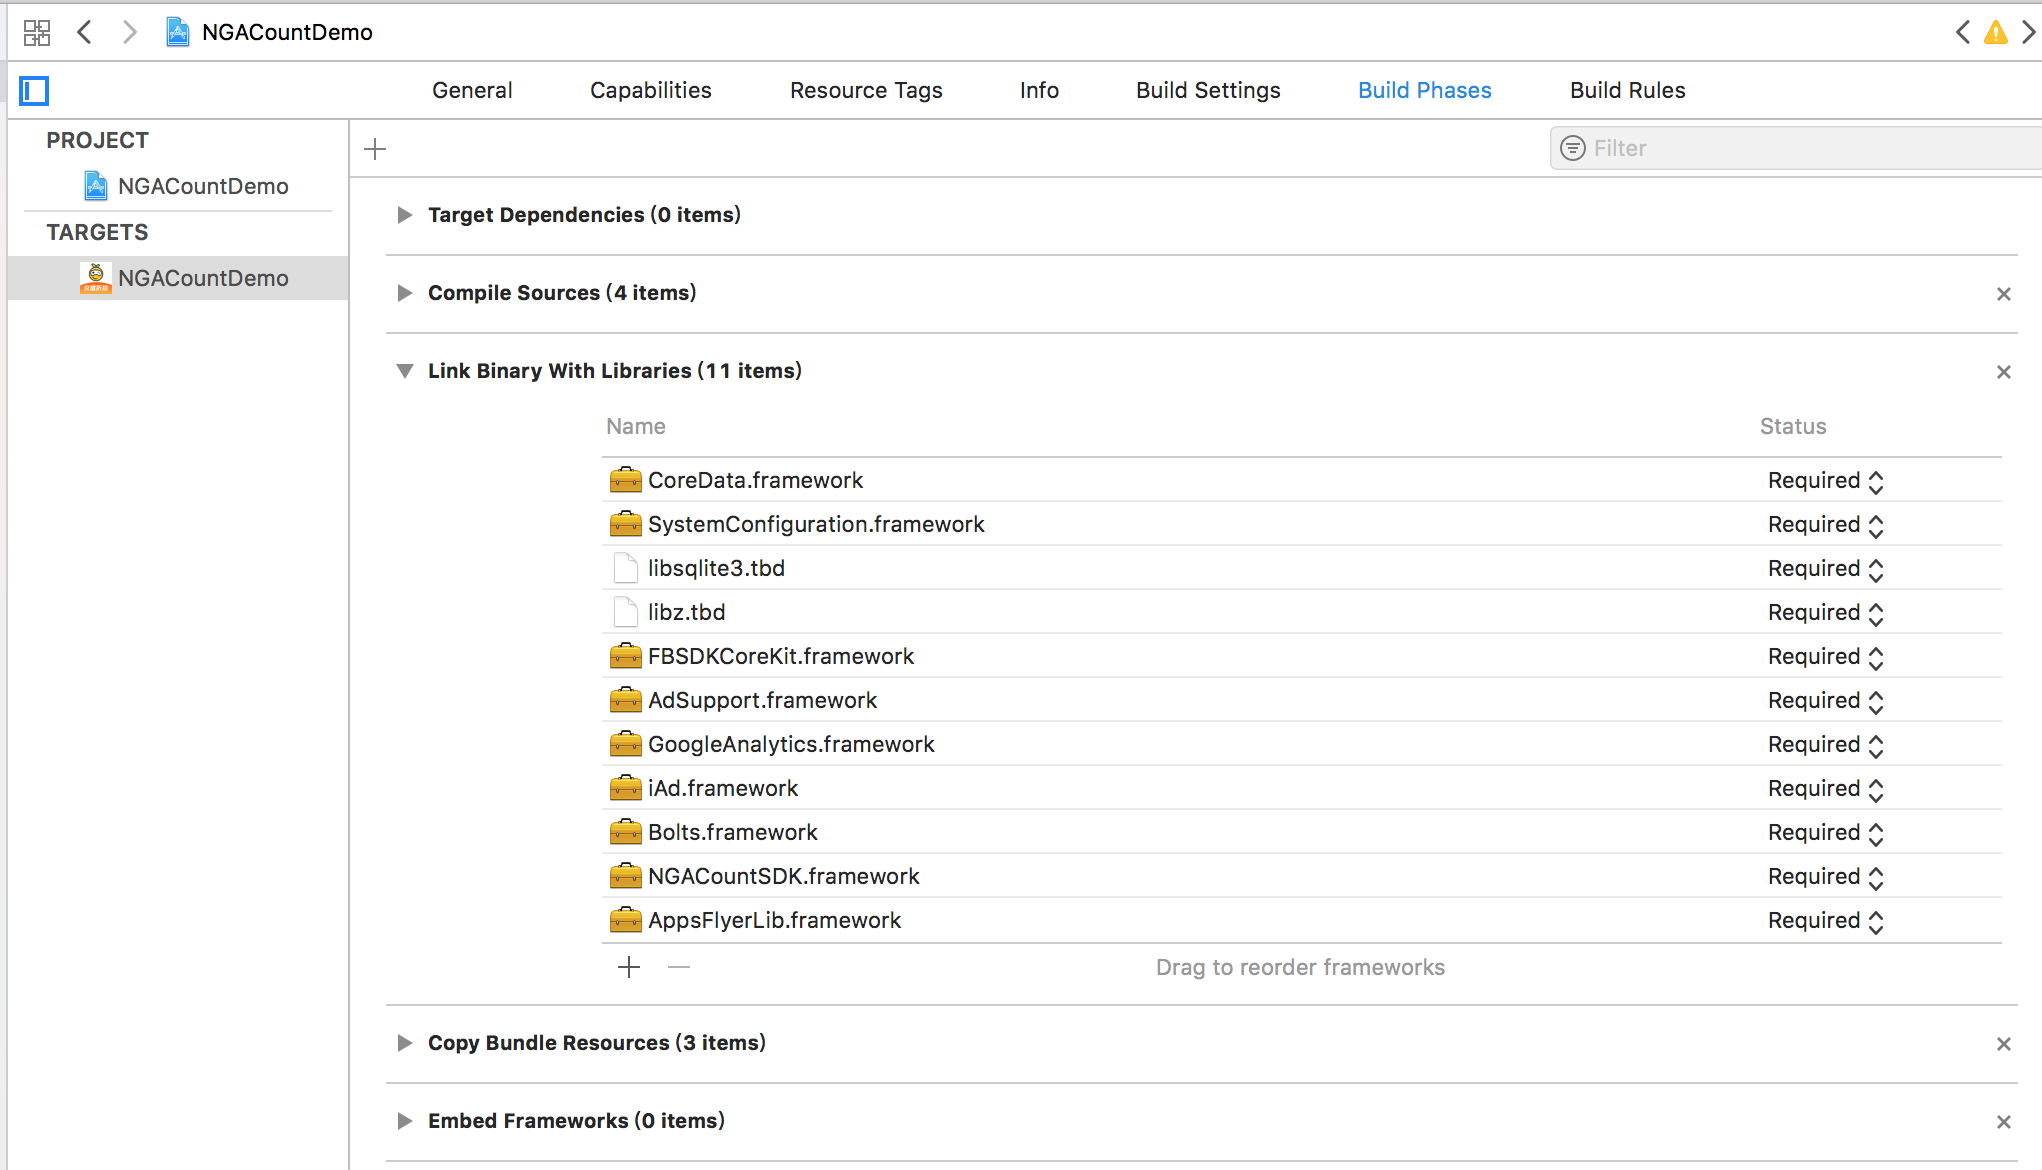
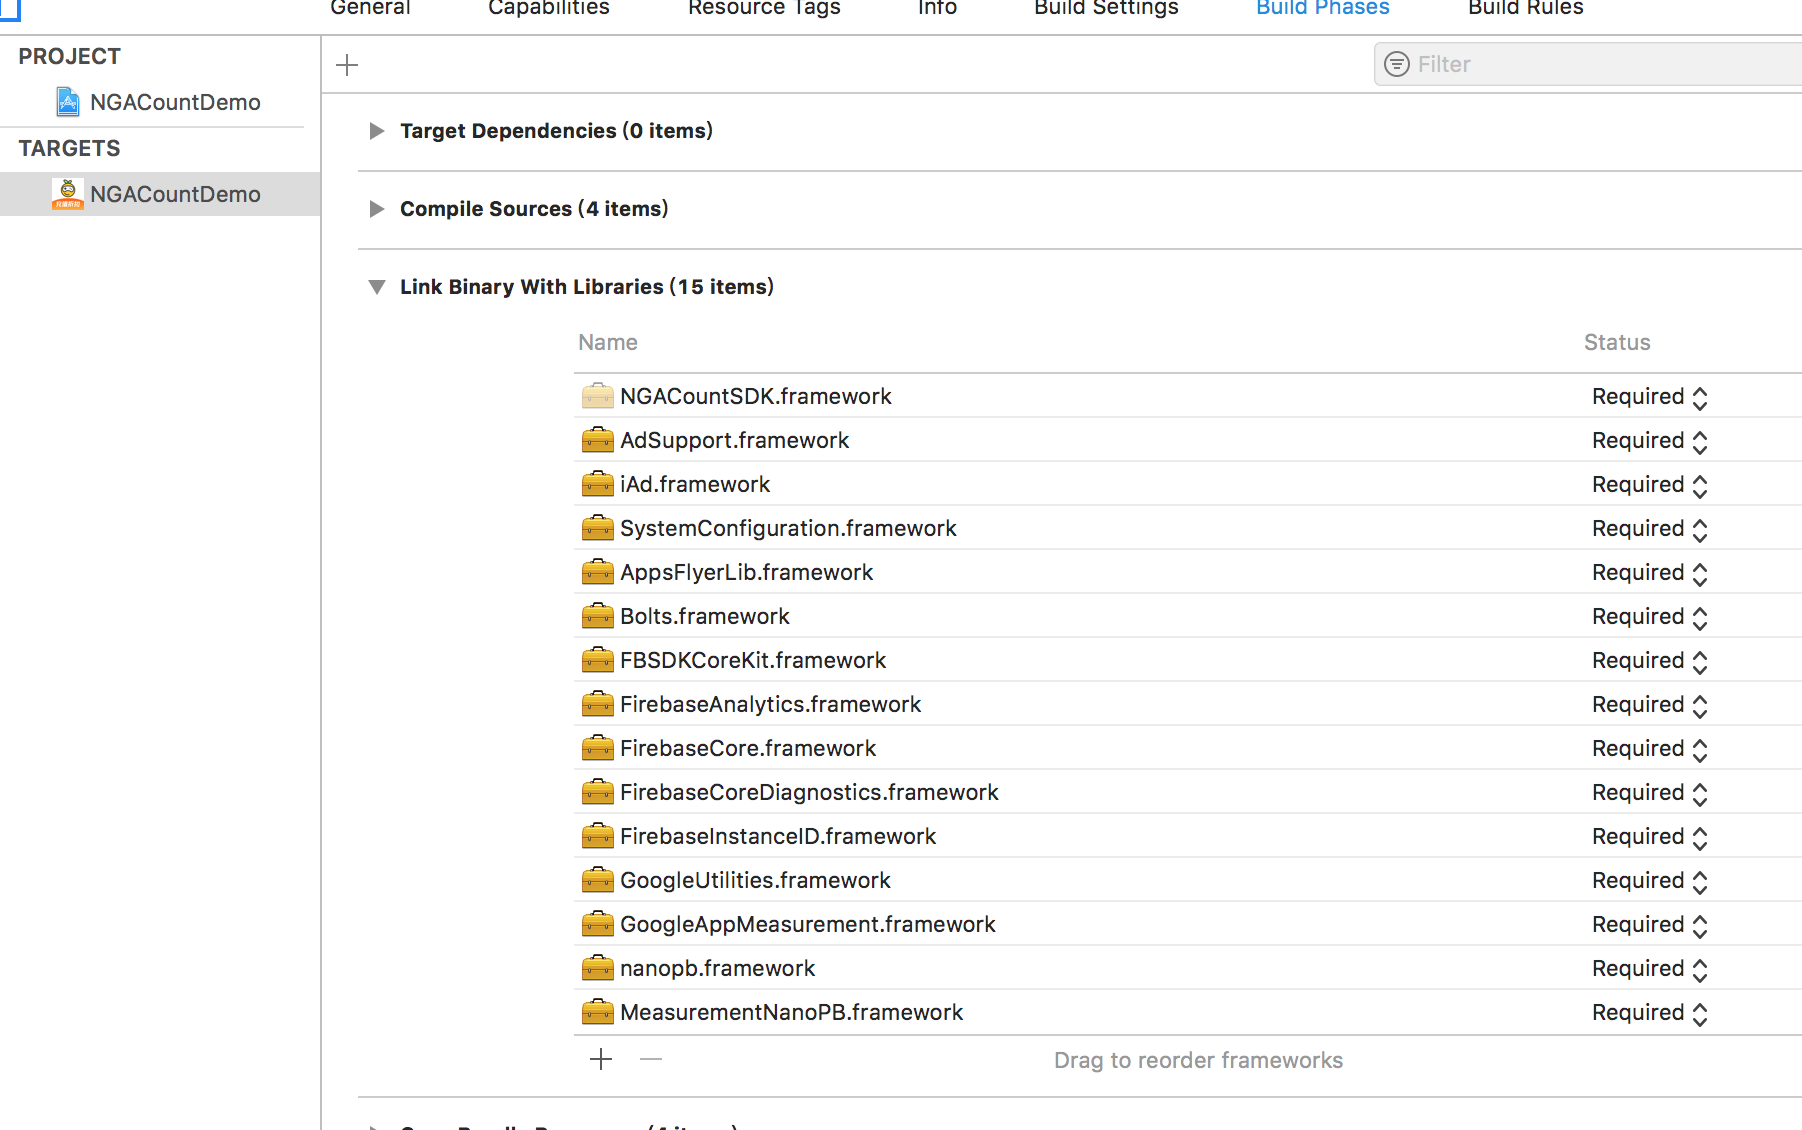
iOS 统计SDK 文档更新
GoogleAnalytics移除, 添加Firebase

diff --git a/ios-kai-fa-ji-cheng/tong-ji-sdk-ji-cheng/sdk-chu-shi-hua-yu-pei-zhi.md b/ios-kai-fa-ji-cheng/tong-ji-sdk-ji-cheng/sdk-chu-shi-hua-yu-pei-zhi.md
@@ -6,12 +6,12 @@
 
 在`- (BOOL)application:(UIApplication *)application didFinishLaunchingWithOptions:(NSDictionary *)launchOptions` 方法中配置如下代码:
 
-```text
+```objective-c
 //启动FB, 在集成登录SDK的情况下, 此行代码跳过
 //[[NGAAppEvents sharedInstance] fbApplication:application didFinishLaunchingWithOptions:launchOptions];
 
-//配置GoogleAnalytics
-[[NGAAppEvents sharedInstance] gaTrackerWithTrackingId:@"UA-109913105-1"];
+//配置Google Firebase
+[[NGAAppEvents sharedInstance] gaConfigure];
 
 //配置启动配置的相关参数
 NGAConfig* config = NGAConfig.new;
@@ -24,7 +24,7 @@ config.enableAddIDFA = YES;                            //开启IDFA追踪
 
 ### 还需要配置如下代码:
 
-```text
+```objective-c
 -(void)applicationDidBecomeActive:(UIApplication *)application{
     [[NGAAppEvents sharedInstance] afTrackAppLaunch];
     [[NGAAppEvents sharedInstance] fbActivateApp];
@@ -38,7 +38,7 @@ config.enableAddIDFA = YES;                            //开启IDFA追踪
 
 ### openURL方法
 
-```text
+```objective-c
 // Reports app open from deeplink for iOS 8 or below (DEPRECATED)
 - (BOOL)application:(UIApplication *)application openURL:(NSURL *)url sourceApplication:(NSString*)sourceApplication annotation:(id)annotation{
     [[NGAAppEvents sharedInstance] afHandleOpenURL:url sourceApplication:sourceApplication withAnnotation:annotation];
@@ -62,7 +62,7 @@ config.enableAddIDFA = YES;                            //开启IDFA追踪
 
 ![](../../.gitbook/assets/tu-pian-1.png)SourceCode下为:
 
-```markup
+```xml
 <array>
   <dict>
     <key>CFBundleURLSchemes</key>

diff --git a/ios-kai-fa-ji-cheng/tong-ji-sdk-ji-cheng/shi-jian-tiao-yong.md b/ios-kai-fa-ji-cheng/tong-ji-sdk-ji-cheng/shi-jian-tiao-yong.md
@@ -1,36 +1,19 @@
 # 事件调用
 
-除去GoogleAnalytics的事件调用方法为:
+一般情况下事件调用方法为:
 
-```text
+```objective-c
 [NGAAppEvents.sharedInstance recordEvent:@"TestEventA"];
 [NGAAppEvents.sharedInstance recordEvent:@"TestEventC" values:@{@"level" : @"10"}];
 ```
 
-GoogleAnalytics的事件调用方法比较特殊, 接口方法为:
+Google Firebase的事件调用方法接口为:
 
-```text
-- (void)gaSendEventWithCategory:(NSString *)category action:(NSString *)action label:(NSString *)label value:(NSNumber *)value;
+```objective-c
+- (void)gaLogEventWithName:(NSString *)name parameters:(NSDictionary<NSString *, id> *)parameters;
 ```
 
-例如:
 
-```text
-[NGAAppEvents.sharedInstance gaSendEventWithCategory:@"Player_Info"
-                                              action:@"Level"
-                                               label:nil
-                                               value:@(888)];
-```
 
-注意:![](../../.gitbook/assets/tu-pian-2.png)
-
-综上, 也就是常规情况下, 一次完整的事件调用需要分别调用
-
-`- (void)recordEvent:(NSString *)key values:(NSDictionary *)values`
-
-和
-
-`- (void)gaSendEventWithCategory:(NSString *)category action:(NSString *)action label:(NSString *)label value:(NSNumber *)value`
-
-两个方法
+根据需求去确认是否调用Google Firebase的事件记录.
 

diff --git a/ios-kai-fa-ji-cheng/deng-lu-sdk-ji-cheng/facebook-xiang-guan-gong-neng.md b/ios-kai-fa-ji-cheng/deng-lu-sdk-ji-cheng/facebook-xiang-guan-gong-neng.md
@@ -2,7 +2,7 @@
 
 ## 1. Facebook分享
 
-```text
+```objective-c
     //showFromViewController参数应该填写的是当前app的rootViewController
     [[NGAFacebookHelper shareInstance] fbShareParam:@"desc" contentURL:@"https://www.facebook.com/SuperheroBrawl" 
      showFromViewController:self Complate:^(BOOL isShareSuccess) {
@@ -16,7 +16,7 @@
 
 ## 2. Facebook游戏邀请
 
-```text
+```objective-c
     //eventID:活动的事件ID, 回调返回的是被邀请的fb的userid数组
     [[NGAFacebookHelper shareInstance] GameFBInviteMessage:@"一起来玩呀" Title:@"邀请测试" 
         eventID:@"1001" Complate:^(InviteResultType type, NSArray *ids) {
@@ -28,7 +28,7 @@
 
 ## 2.1. Facebook邀请计数
 
-```text
+```objective-c
     [[NGAFacebookHelper shareInstance] getFBInvitedUsersWithEventID:@"1001" 
         handler:^(NSArray *inviteUserFBIDs) {
         //回调返回被邀请的fb的userid数组

diff --git a/ios-kai-fa-ji-cheng/deng-lu-sdk-ji-cheng/sdk-pei-zhi-ji-chu-shi-hua.md b/ios-kai-fa-ji-cheng/deng-lu-sdk-ji-cheng/sdk-pei-zhi-ji-chu-shi-hua.md
@@ -8,7 +8,7 @@
 
 源文件部分代码如下, 使用时需要配置相应的facebook appid和 NGamesAppid即可
 
-```markup
+```xml
 <key>LSApplicationQueriesSchemes</key>
 <array>
     <string>fbapi</string>
@@ -43,7 +43,7 @@
 
 在`- (BOOL)application:(UIApplication *)application didFinishLaunchingWithOptions:(NSDictionary *)launchOptions` 方法中配置如下代码:
 
-```text
+```objective-c
 [NGAGameLoginKit shareInstance].languageCode = @"en";
 [[NGAGameLoginKit shareInstance] setupGameHandlerWithApplication:application LaunchingWithOptions:launchOptions];
 ```
@@ -63,7 +63,7 @@
 
 ### 并配置相应的OpenURL方法:
 
-```text
+```objective-c
 ///iOS 9 之前使用的方法
 - (BOOL)application:(UIApplication *)application openURL:(NSURL *)url sourceApplication:(NSString *)sourceApplication annotation:(id)annotation {
     //FB的OpenURL方法

diff --git a/ios-kai-fa-ji-cheng/deng-lu-sdk-ji-cheng/deng-lu.md b/ios-kai-fa-ji-cheng/deng-lu-sdk-ji-cheng/deng-lu.md
@@ -2,7 +2,7 @@
 
 ## 1. 设置代理方法及相关的参数
 
-```text
+```objective-c
 //设置服务器ID, 必要
 [NGAGameLoginKit shareInstance].sid = @"1"; 
 
@@ -17,7 +17,7 @@
 
 ## 2.  游客登录
 
-```text
+```objective-c
     [[NGAGameLoginKit shareInstance] guestUserLoginSuccess:^(UserModel *user) {
         //TODO: 此处返回Guest User
 
@@ -28,7 +28,7 @@
 
 ## 3. Facebook 登录
 
-```text
+```objective-c
     [[NGAGameLoginKit shareInstance] fbLoginSuccess:^(UserModel *user) {
         NSLog(@"facebook 用户ID:%@", [FBSDKAccessToken currentAccessToken].userID);
         //TODO: 此处返回绑定fb的 User
@@ -40,7 +40,7 @@
 
 ## 4. GameCenter登录
 
-```text
+```objective-c
     [[NGAGameLoginKit shareInstance] gameCenterLoginSuccess:^(UserModel *user) {
         //TODO: 此处返回绑定GameCenter的User
 

diff --git a/ios-kai-fa-ji-cheng/tong-ji-sdk-ji-cheng/sdk-ji-cheng.md b/ios-kai-fa-ji-cheng/tong-ji-sdk-ji-cheng/sdk-ji-cheng.md
@@ -6,25 +6,42 @@
 
 包括
 
-> AppsFlyerLib.framework
->
-> Bolts.framework
->
-> FBSDKCoreKit.framework
->
-> GoogleAnalytics.framework
->
 > NGACountSDK.framework
 >
 > AdSupport.framework
 >
 > iAd.framework
 >
-> CoreData.framework
->
 > SystemConfiguration.framework
 >
-> libsqlite3.tbd
+> AppsFlyerLib.framework
 >
-> libz.tbd
+> Bolts.framework
+>
+> FBSDKCoreKit.framework
+>
+> FirebaseAnalytics.framework
+>
+> FirebaseCore.framework
+>
+> FirebaseCoreDiagnostics.framework
+>
+> FirebaseInstanceID.framework
+>
+> GoogleUtilities.framework
+>
+> GoogleAppMeasurement.framework
+>
+> MeasurementNanoPB.framework
+>
+> nanopb.framework
 
+
+
+### 并在Build Settings设置如下参数:
+
+![](../../.gitbook/assets/snipaste_2018-05-03_11-50-51.png)
+
+
+
+注意拼写为:  **-ObjC**

diff --git a/ios-kai-fa-ji-cheng/deng-lu-sdk-ji-cheng/zhi-fu.md b/ios-kai-fa-ji-cheng/deng-lu-sdk-ji-cheng/zhi-fu.md
@@ -2,7 +2,7 @@
 
 ## 1. 初始化商品集合并设置代理方法
 
-```text
+```objective-c
 - (void)shopsInit{
     //初始化iap对象
     if(![IAPShare sharedHelper].iap) {
@@ -45,7 +45,7 @@
 
 ## 2. 发起购买物品的请求
 
-```text
+```objective-c
 - (void)shopBtnClicked{
     //获取商品对象
     SKProduct* product =[[IAPShare sharedHelper].iap.products objectAtIndex:1];

diff --git a/ios-kai-fa-ji-cheng/deng-lu-sdk-ji-cheng/xuan-fu-chuang.md b/ios-kai-fa-ji-cheng/deng-lu-sdk-ji-cheng/xuan-fu-chuang.md
@@ -1,6 +1,6 @@
 # 悬浮窗
 
-```text
+```objective-c
     //获取悬浮窗控件并添加到视图中
     NGAGameDragBallView *dragballView=[[NGAGameDragBallView alloc] initWithFrame:CGRectMake(0, 250, 0, 0)];
     [self.view addSubview:dragballView];

diff --git a/ios-kai-fa-ji-cheng/tong-ji-sdk-ji-cheng/qi-ta-fang-fa.md b/ios-kai-fa-ji-cheng/tong-ji-sdk-ji-cheng/qi-ta-fang-fa.md
@@ -8,7 +8,7 @@
 >
 > 登录SDK中有如下方法:
 >
-> ```text
+> ```objective-c
 > //获取上一次成功登录的用户ID
 > if([NGAGameLoginKit shareInstance].lastUser.userId) {
 >   //TODO 设置customerUserID
